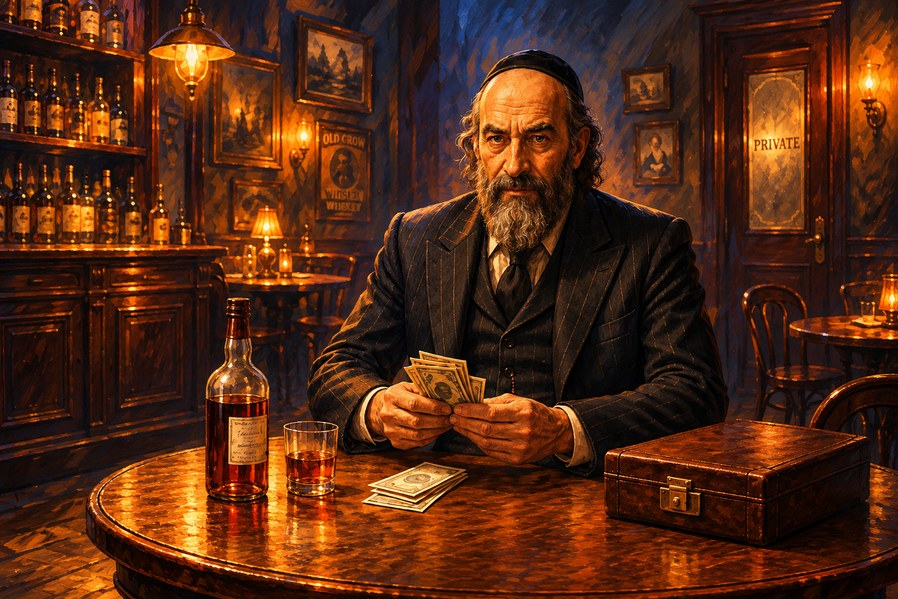
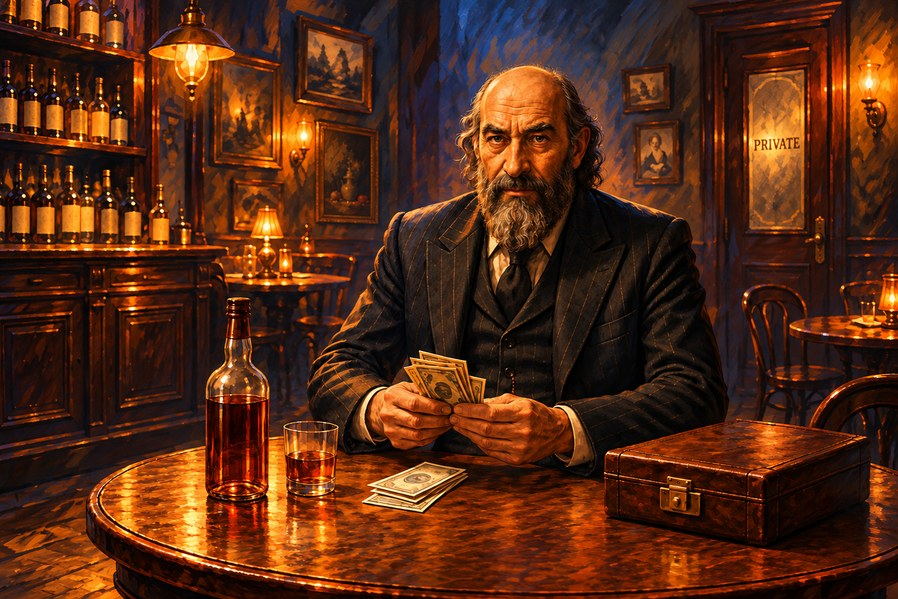
Card art: Shylock as a loan shark, without the skullcap or the brand
Nick's redraw: no religious markers and no Old Crow poster. Sized like
the rest (898 x 599, JPEG q88); the Marks sheet renders clean.

Claude-Session: https://claude.ai/code/session_01DmX1hTZsDvcFGE8USNKQPm

diff --git a/respect-endgame-handoff.md b/respect-endgame-handoff.md
@@ -164,7 +164,8 @@ Every item on the old "When Nick says go" list is done, art first:
   Captain" needs 8pt to fit the title box, so all four read Precinct Captain, Alderman, Judge, Mayor.
   The art lift drops from 1.2 to the Jobs deck's 1.1, since the plates are bright now (Nick redrew the
   four Borough plates brighter the same day: 39 to 55 became 52 to 67); his second Bronx drops a patch of
-  modern graffiti, and his second Welsher drops the garbled contract text and the real brand label. Every card measures 88mm with no overflow.
+  modern graffiti, and his second Welsher drops the garbled contract text and the real brand label; his second Shylock drops
+  the skullcap and the Old Crow poster, so he reads as a loan shark, not a caricature. Every card measures 88mm with no overflow.
 - **Playbooks, Town Planner, Federal Crackdown Tracker:** the Beg, Rat and Bribe rows; the crown
   plaque and the Respect line; 40 combined. Playbook rows measure identical to before.
 - **The Almanac:** The Cheap Rungs, Bury the Card, The Refund (which also had a stale "pays 3
